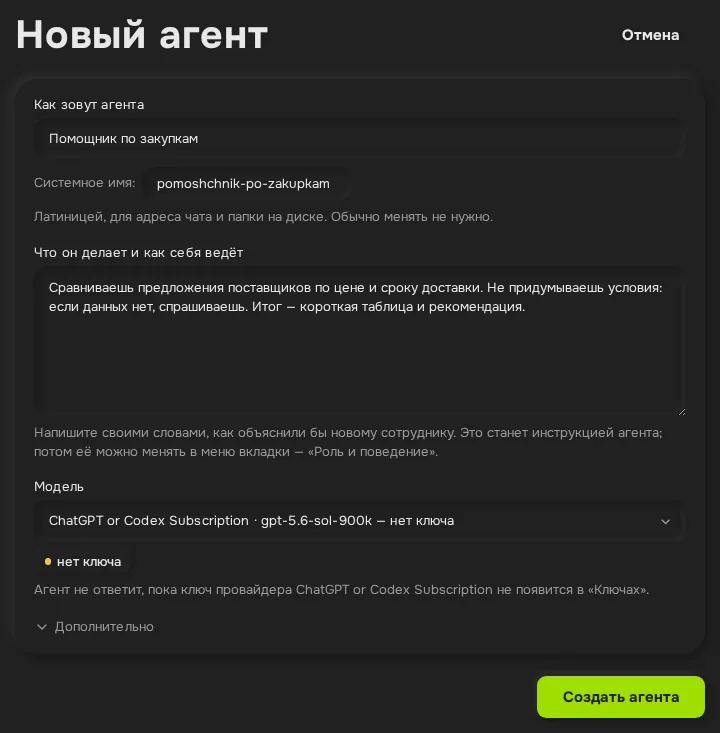
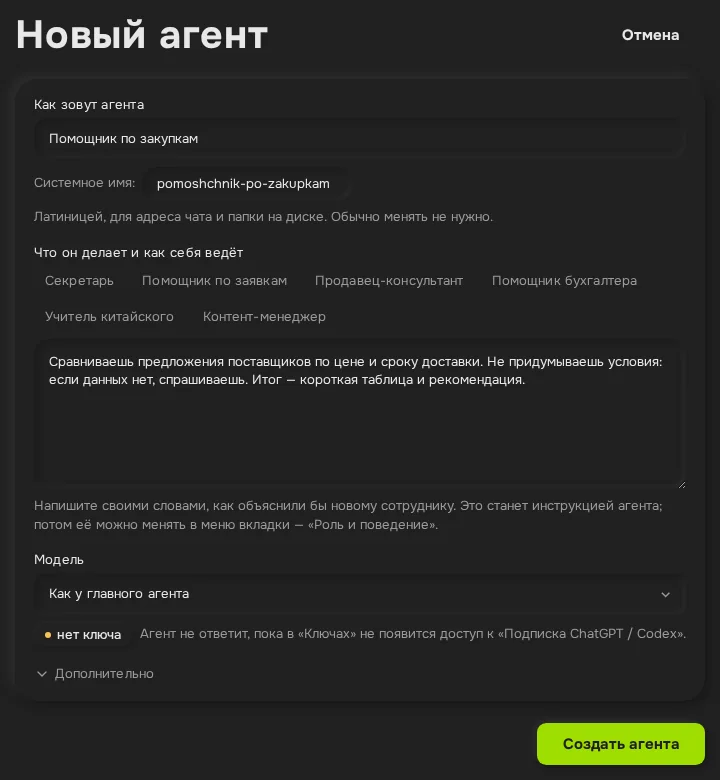
Обновлены учебные снимки мастера и инструкция подключения сервисов

diff --git a/web/src/pages/help/work.ts b/web/src/pages/help/work.ts
@@ -33,14 +33,14 @@ export const workArticles: HelpArticle[] = [
         step('Заполните имя и роль', 'Впишите, например, «Помощник по продажам». В поле «Что он делает и как себя ведёт» опишите обязанности, правила и вид хорошего результата. Можно начать с заготовки роли и поправить её текст. Системное имя обычно можно оставить предложенным.', 'Под русским именем появится адресное имя латиницей; ваша роль останется в отдельном поле.'),
         step('Проверьте модель и создайте агента', 'Модель — система, которая готовит ответы. Можно оставить «Как у главного агента» или выбрать сначала провайдера, затем его модель. Если рядом написано «нет ключа», сначала настройте доступ. Нажмите «Создать агента».', 'Появятся отдельные блоки «Сохранено» и «Ответ агента». Имя, роль и модель проверяются отдельно от доступности ответа; «Открыть чат» ведёт к вкладке.'),
       ], example: 'Помогаешь с продажами небольшого магазина. Готовишь черновики ответов покупателям. Не придумываешь цены и сроки: если данных нет, спрашиваешь. Пишешь коротко и доброжелательно. Перед отправкой клиенту показываешь мне текст.',
-      image: { name: 'agent-wizard', alt: 'Поля имени, роли и модели в мастере нового агента', caption: 'Мастер: имя и обязанности задаются обычными словами. На снимке — учебный пример.', width: 720, height: 733 },
+      image: { name: 'agent-wizard', alt: 'Поля имени, роли и модели в мастере нового агента', caption: 'Мастер: имя и обязанности задаются обычными словами. На снимке — учебный пример.', width: 720, height: 780 },
       links: [link('Ключи и доступы', '/help/keys')] },
       { id: 'role', title: 'Изменить роль или модель агента', steps: [
         step('Откройте меню нужной вкладки', 'Нажмите кнопку с тремя точками рядом с именем агента. Выберите «Роль и поведение» или «Модель».', 'Откроются настройки именно этого агента.'),
         step('Внесите и сохраните изменения', 'В роли объясните, что делать иначе. При смене модели выберите доступного поставщика ответов и модель, затем сохраните выбор.', 'Появится подтверждение сохранения либо сообщение о том, что нужно исправить.'),
         step('Начните новый чат', 'Вернитесь к вкладке агента и выберите в её меню «Новый чат».', 'Новый разговор будет использовать новые инструкции. Старый диалог останется в истории.'),
       ], note: 'Изменение роли не переписывает уже начатый разговор. Если агент отвечает по старым правилам, сначала откройте новый чат.',
-      image: { name: 'agent-menu', alt: 'Меню вкладки с действиями «Роль и поведение», «Модель» и «Новый чат»', caption: 'Все основные настройки помощника находятся в меню его вкладки.', width: 251, height: 248 } },
+      image: { name: 'agent-menu', alt: 'Меню вкладки с действиями «Роль и поведение», «Модель» и «Новый чат»', caption: 'Все основные настройки помощника находятся в меню его вкладки.', width: 251, height: 349 } },
       { id: 'tabs', title: 'Навести порядок во вкладках', steps: [
         step('Откройте меню вкладки', 'Выберите «Переименовать», впишите понятное имя и нажмите кнопку сохранения.', 'Имя на вкладке изменится.'),
         step('Расставьте вкладки', 'Используйте «Сдвинуть влево» и «Сдвинуть вправо». Ненужную сейчас вкладку можно скрыть.', 'Изменится порядок вкладок. Скрытие убирает вкладку с экрана, агент сохраняется.'),

diff --git a/web/src/pages/help/settings.ts b/web/src/pages/help/settings.ts
@@ -28,7 +28,7 @@ export const settingsArticles: HelpArticle[] = [
     sections: [
       { id: 'save', title: 'Добавить или заменить ключ', steps: [
         step('Выберите нужного агента', 'Откройте «Настройки» → «Ключи и доступы». Проверьте имя агента, если оно показано. Из ошибки мастера можно перейти кнопкой «Открыть “Ключи”».', 'На странице будут доступы выбранного агента.'),
-        step('Найдите нужный сервис', 'Откройте карточку провайдера, которым пользуется модель. При необходимости перейдите по «Получить ключ» и получите ключ в своём аккаунте сервиса.', 'Вы увидите поле для добавления или замены значения.'),
+        step('Найдите нужный сервис', 'В «Сервисах ответов» сначала показаны настроенные подключения. Для нового нажмите «Подключить сервис», найдите его по названию и откройте карточку. При необходимости используйте «Получить ключ».', 'Вы увидите поле для добавления или замены значения.'),
         step('Вставьте ключ и сохраните', 'Введите полное значение в поле ключа и нажмите кнопку сохранения рядом с ним. Не отправляйте ключ обычным сообщением в чат.', 'Появится подтверждение сохранения. Затем можно повторить проверку агента.'),
       ], note: 'Пустое поле замены не означает, что ключ отсутствует: сохранённые значения скрыты. Смотрите отметку настройки. Ключ одного сервиса не даёт доступ к моделям другого.' },
       { id: 'login', title: 'Использовать вход по подписке', steps: [

diff --git a/scripts/astra-help-e2e.py b/scripts/astra-help-e2e.py
@@ -142,7 +142,8 @@ def main():
                     assert src.startswith(prefix + '/help/') and src.endswith('.webp')
                     assert int(image.get_attribute('width')) == dims[0]
                     assert int(image.get_attribute('height')) == dims[1]
-                    response = context.request.get(urlparse(base)._replace(path=src, query='', fragment='').geturl())
+                    # Повторяется только обрыв соединения; HTTP-ошибки остаются ошибками проверки.
+                    response = context.request.get(urlparse(base)._replace(path=src, query='', fragment='').geturl(), max_retries=2)
                     assert response.ok and response.headers['content-type'].startswith('image/webp')
                     assets.add(src)
                 checks += 1
@@ -152,7 +153,7 @@ def main():
         page.evaluate('window.helpNavigationMarker = 21')
         page.locator('.help-quick').filter(has_text='Дать агенту поручение').click()
         expect(page).to_have_url(proxy + '/help/kanban#create')
-        assert page.evaluate('document.activeElement.id') == 'create'
+        expect(page.locator('#create')).to_be_focused()
         top = page.locator('#create').bounding_box()['y']
         assert page.locator('main').bounding_box()['y'] <= top < 150
         page.locator('.help-article-header a').click()
@@ -182,7 +183,7 @@ def main():
             fits(page)
             for asset in assets:
                 filename = asset.rsplit('/', 1)[1].replace('-light.webp', '-' + theme + '.webp').replace('-dark.webp', '-' + theme + '.webp')
-                image_response = context.request.get(proxy + '/help/' + filename)
+                image_response = context.request.get(proxy + '/help/' + filename, max_retries=2)
                 assert image_response.ok and image_response.headers['content-type'].startswith('image/webp')
             assert page.locator('.help-welcome').bounding_box()['y'] >= page.locator('main').bounding_box()['y'] - 1
             shot(page, 'index-' + theme)
